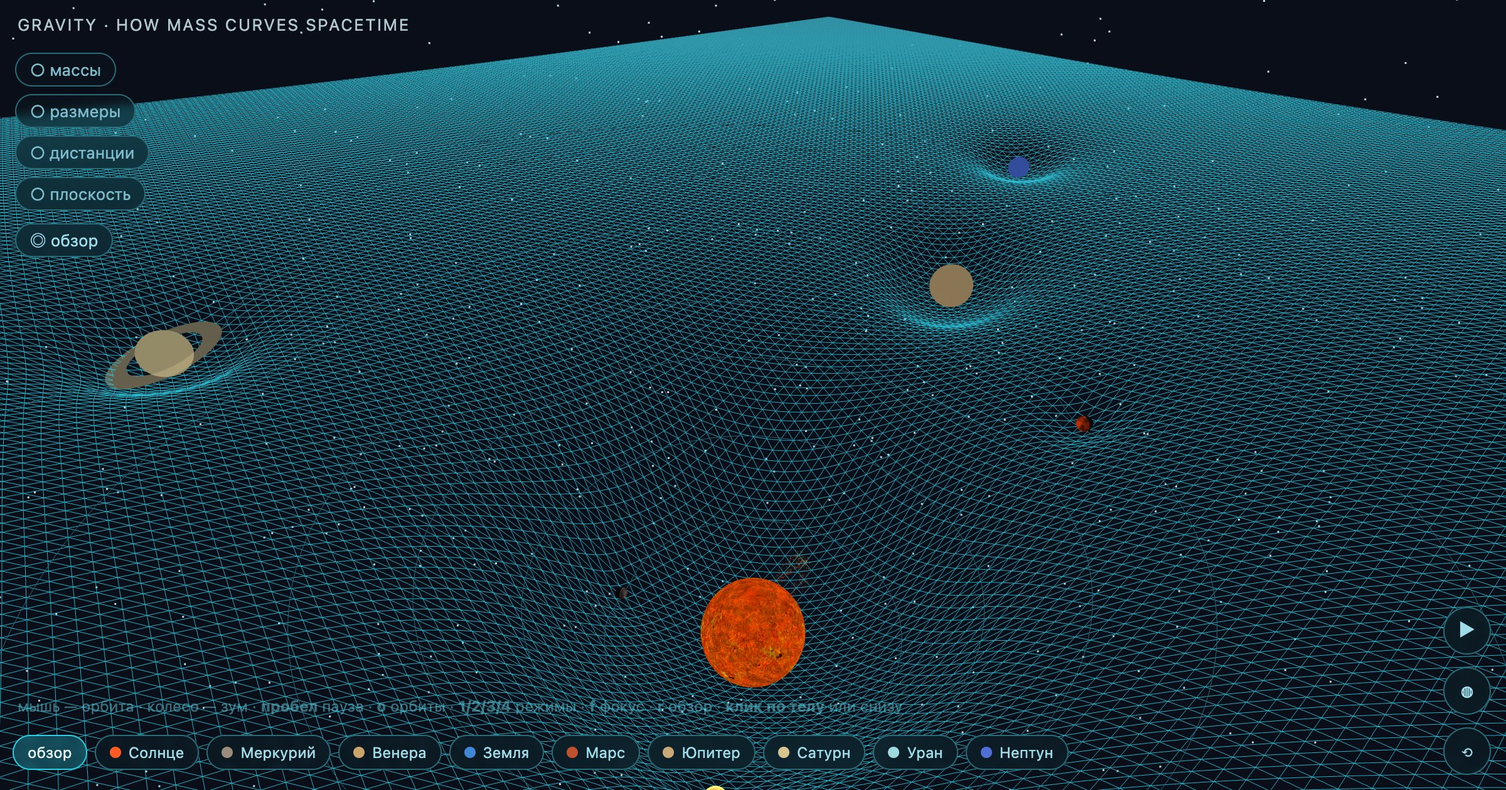
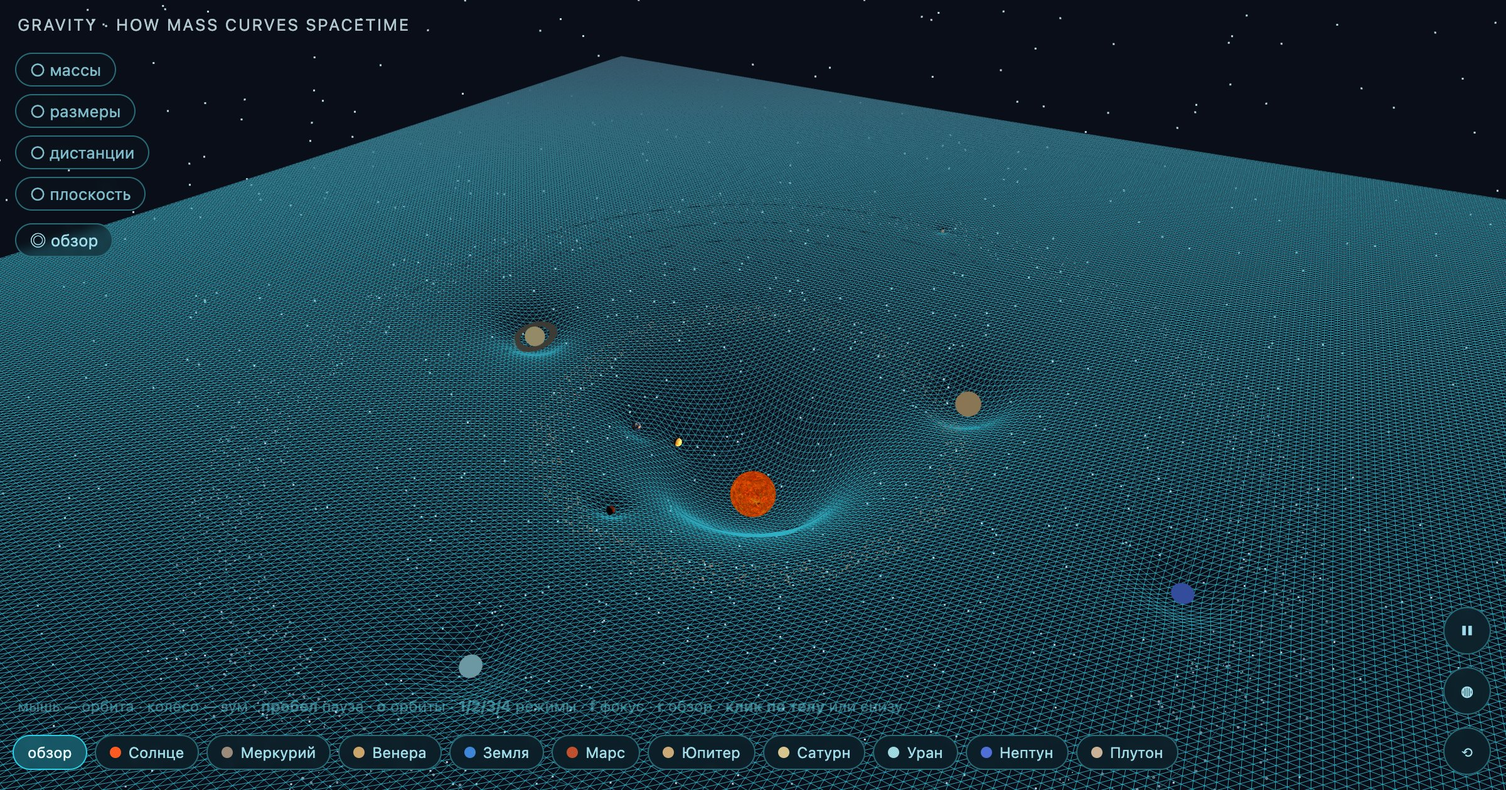
grav: Pluto + asteroid belts (main & Kuiper, GPU rock impostors lit by the sun), Jupiter & Saturn photo textures with day/night and healed seams, real ring structure (C/B/Cassini/A/Encke), exact solar mass (332946 M⊕), wider sheet for real-distance Kuiper

diff --git a/grav/index.html b/grav/index.html
@@ -130,16 +130,17 @@ scene.add(sunLight);
 //     not one of the three physical axes. ---
 const G = 1;
 const sun = { name: 'Sun', color: 0xff5a22, rwell: 100, x: 0, z: 0, speed: 0, ang: 0,
-              radiusS: 26, massS: 13000, orbitS: 0, realR: 109.2, realM: 333000, realAU: 0 };
+              radiusS: 26, massS: 13000, orbitS: 0, realR: 109.2, realM: 332946, realAU: 0 };   // 1.98841e30 kg / 5.97217e24 kg (JPL)
 const planets = [
   { name: 'Mercury', color: 0x9c8a7a, rwell: 13, speed: 0.052, radiusS: 3.0, massS: 90,   orbitS: 72,  realR: 0.383, realM: 0.0553, realAU: 0.387, texture: 'mercury.jpg', textureNight: 'mercury_night.jpg', spin: 0.003, nightBoost: 0.85, atmoStr: 0.0 },
   { name: 'Venus',   color: 0xcaa46a, rwell: 17, speed: 0.039, radiusS: 5.0, massS: 200,  orbitS: 104, realR: 0.950, realM: 0.815,  realAU: 0.723, texture: 'venus.jpg', textureNight: 'venus_night.jpg', spin: -0.002, atmoColor: 0xe8c88a, atmoStr: 1.3, atmoPow: 2.0, nightBoost: 0.7 },   // spin < 0: Venus really does rotate retrograde
   { name: 'Earth',   color: 0x3f86d6, rwell: 18, speed: 0.031, radiusS: 5.3, massS: 220,  orbitS: 140, realR: 1.000, realM: 1.000,  realAU: 1.000, texture: 'earth.jpg', textureNight: 'earth_night.jpg', cloud: 'earth_clouds.jpg', spin: 0.004 },
   { name: 'Mars',    color: 0xc1502e, rwell: 15, speed: 0.025, radiusS: 4.0, massS: 150,  orbitS: 176, realR: 0.532, realM: 0.107,  realAU: 1.524, texture: 'mars.jpg', textureNight: 'mars_night.jpg', spin: 0.004, atmoColor: 0xc07a48, nightBoost: 0.85, atmoStr: 0.6, atmoPow: 5.0 },
-  { name: 'Jupiter', color: 0xcaa877, rwell: 42, speed: 0.015, radiusS: 14,  massS: 1300, orbitS: 244, realR: 10.97, realM: 317.8,  realAU: 5.204 },
-  { name: 'Saturn',  color: 0xd8c48f, rwell: 38, speed: 0.011, radiusS: 12,  massS: 1000, orbitS: 312, realR: 9.14,  realM: 95.2,   realAU: 9.583, ring: true },
+  { name: 'Jupiter', color: 0xcaa877, rwell: 42, speed: 0.015, radiusS: 14,  massS: 1300, orbitS: 244, realR: 10.97, realM: 317.8,  realAU: 5.204, texture: 'jupiter.jpg', textureNight: 'jupiter_night.jpg', spin: 0.01, nightBoost: 0.9, atmoColor: 0xd8b08a, atmoStr: 0.45, atmoPow: 3.5 },   // spin 0.01: сутки 9.9 ч, самый быстрый волчок системы
+  { name: 'Saturn',  color: 0xd8c48f, rwell: 38, speed: 0.011, radiusS: 12,  massS: 1000, orbitS: 312, realR: 9.14,  realM: 95.2,   realAU: 9.583, ring: true, texture: 'saturn.jpg', spin: 0.009, nightBoost: 0.12, atmoColor: 0xe6d3a3, atmoStr: 0.3, atmoPow: 3.5 },   // без ночной карты: ночь = день × nightBoost; сутки 10.7 ч
   { name: 'Uranus',  color: 0x9fd8de, rwell: 28, speed: 0.008, radiusS: 8,   massS: 480,  orbitS: 366, realR: 3.98,  realM: 14.5,   realAU: 19.22 },
   { name: 'Neptune', color: 0x4f6fd6, rwell: 28, speed: 0.006, radiusS: 8,   massS: 480,  orbitS: 414, realR: 3.86,  realM: 17.1,   realAU: 30.07 },
+  { name: 'Pluto',   color: 0xc9b295, rwell: 8,  speed: 0.005, radiusS: 2.2, massS: 30,   orbitS: 470, realR: 0.187, realM: 0.00218, realAU: 39.48 },   // дом — в поясе Койпера (orbitS внутри его стилизованной полосы)
 ];
 const bodies = [sun, ...planets];
 bodies.forEach(b => { b.radius = b.radiusS; b.mass = b.massS; b.orbit = b.orbitS; });
@@ -161,7 +162,7 @@ function disp(x, z) { return real.flat ? 0 : wellDepth(x, z); }
 // --- the spacetime sheet. The wells are summed on the GPU: the vertex shader reads 9 (x, z, G·mass, rwell)
 //     uniforms and displaces each vertex itself — no per-frame JS loop over ~58k verts, no buffer re-upload.
 //     Same math as wellDepth(), so the sheet and the bodies always agree. ---
-const S = 1300, SEG = isTouch ? 150 : 240;   // fewer verts on phones
+const S = 1900, SEG = isTouch ? 200 : 320;   // wide enough for Pluto + the Kuiper belt at real distances; fewer verts on phones
 const gridMat = new THREE.ShaderMaterial({
   wireframe: true, transparent: true, fog: true,
   uniforms: THREE.UniformsUtils.merge([THREE.UniformsLib.fog, {
@@ -368,7 +369,8 @@ const planetMeshes = planets.map(p => {
     const cfg = t => { t.colorSpace = THREE.SRGBColorSpace; t.wrapS = THREE.RepeatWrapping;   // longitude wraps → seam on far side
                        t.wrapT = THREE.ClampToEdgeWrapping;                                    // latitude clamps at the poles
                        t.anisotropy = renderer.capabilities.getMaxAnisotropy(); return t; };
-    const day = cfg(texLoader.load(p.texture)), night = cfg(texLoader.load(p.textureNight));
+    const day = cfg(texLoader.load(p.texture)),
+          night = p.textureNight ? cfg(texLoader.load(p.textureNight)) : day;   // нет ночной карты (газовые гиганты) → та же дневная, приглушённая малым nightBoost
     mat = new THREE.ShaderMaterial({
       uniforms: { dayMap: { value: day }, nightMap: { value: night },
                   sunDir: { value: new THREE.Vector3(1, 0, 0) }, atmo: { value: new THREE.Color(p.atmoColor ?? 0x3aa0ff) }, nightBoost: { value: p.nightBoost ?? 1.7 },
@@ -423,8 +425,29 @@ const planetMeshes = planets.map(p => {
     m.add(p._cloud);
   }
   if (p.ring) {
-    const ring = new THREE.Mesh(new THREE.RingGeometry(p.radiusS * 1.5, p.radiusS * 2.3, 48),
-      new THREE.MeshBasicMaterial({ color: 0xd8c48f, side: THREE.DoubleSide, transparent: true, opacity: 0.5 }));
+    // кольца по-настоящему: радиальные UV + полоса-текстура с зонами C (тусклая), B (яркая),
+    // щелью Кассини и кольцом A со щелью Энке; радиусы — в пропорциях настоящих (1.24–2.27 R)
+    const r0 = p.radiusS * 1.24, r1 = p.radiusS * 2.27;
+    const rg = new THREE.RingGeometry(r0, r1, 96, 1);
+    const rpos = rg.attributes.position, ruv = rg.attributes.uv;
+    for (let i = 0; i < rpos.count; i++) ruv.setXY(i, (Math.hypot(rpos.getX(i), rpos.getY(i)) - r0) / (r1 - r0), 0.5);
+    const rc = document.createElement('canvas'); rc.width = 512; rc.height = 1;
+    const stops = [[0,0.04],[0.05,0.12],[0.28,0.3],[0.30,0.75],[0.55,0.7],[0.685,0.62],[0.7,0.06],[0.76,0.06],[0.78,0.5],[0.94,0.48],[0.948,0.1],[0.958,0.42],[0.99,0.3],[1,0]];
+    const alphaAt = x => { for (let s = 1; s < stops.length; s++) if (x <= stops[s][0]) {
+      const [x0,a0] = stops[s-1], [x1,a1] = stops[s]; return a0 + (a1-a0)*(x-x0)/((x1-x0) || 1); } return 0; };
+    const im = rc.getContext('2d').createImageData(512, 1);
+    for (let x = 0; x < 512; x++) {
+      const t = x / 511;
+      const a = alphaAt(t) * (0.86 + 0.14*Math.sin(t*180 + Math.sin(t*57)*2));   // тонкие бороздки
+      const zone = t < 0.28 ? 0.8 : (t < 0.7 ? 1.0 : 0.92);                      // C темнее, B ярче, A между
+      const shade = (205 + 22*Math.sin(t*40 + 1.7)) * zone;
+      im.data[x*4] = shade; im.data[x*4+1] = shade*0.9; im.data[x*4+2] = shade*0.72;
+      im.data[x*4+3] = Math.max(0, Math.min(1, a)) * 255;
+    }
+    rc.getContext('2d').putImageData(im, 0, 0);
+    const rtex = new THREE.CanvasTexture(rc);
+    rtex.colorSpace = THREE.SRGBColorSpace;
+    const ring = new THREE.Mesh(rg, new THREE.MeshBasicMaterial({ map: rtex, side: THREE.DoubleSide, transparent: true, depthWrite: false }));
     ring.rotation.x = -Math.PI / 2.3; m.add(ring);
   }
   scene.add(m); return m;
@@ -437,6 +460,89 @@ const orbitLines = planets.map(p => {
   g.setAttribute('position', new THREE.BufferAttribute(new Float32Array(N * 3), 3));
   const line = new THREE.LineLoop(g, new THREE.LineBasicMaterial({ color: 0x49b8ce, transparent: true, opacity: 0.55 }));
   scene.add(line); return { line, N, r: p.orbit };
+});
+
+// --- asteroid belts: the main belt (between Mars and Jupiter) and the Kuiper belt (beyond Neptune —
+//     Pluto's home). Pure GPU dust: each particle carries its lane t within the belt, a start angle
+//     and a small height scatter; the vertex shader derives x,z from the current belt radii
+//     (uR0/uR1 — swapped by the "дистанции" toggle) and drops the point onto the sheet with the
+//     same well sum as the grid. Per-frame JS cost: one shared time uniform. ---
+const BELT_TIME = { value: 0 };
+const SUN_POS = { value: new THREE.Vector3() };   // world position of the sun, fed each frame — lights the rocks
+const BELTS = [
+  { styl0: 196, styl1: 228, realA0: 2.2, realA1: 3.3, N: isTouch ? 900 : 1600,  color: 0xa08a6e, color2: 0x5f5347, w0: 0.021 },   // main belt, 2.2–3.3 AU — rock/rust
+  { styl0: 436, styl1: 505, realA0: 30,  realA1: 50,  N: isTouch ? 1100 : 2000, color: 0xcfe2ee, color2: 0x7f98ac, w0: 0.0052 },  // Kuiper belt, 30–50 AU — ice
+];
+const beltMats = BELTS.map(bd => new THREE.ShaderMaterial({
+  transparent: true, depthWrite: false,
+  uniforms: { uWells: { value: uWells },                       // тот же массив ям, что у листа — одно обновление кормит всё
+              uFlat: gridMat.uniforms.uFlat,                   // общий объект-uniform: флаг «плоскости»
+              uT: BELT_TIME, uSun: SUN_POS,
+              uR0: { value: bd.styl0 }, uR1: { value: bd.styl1 }, uW0: { value: bd.w0 },
+              uColor: { value: new THREE.Color(bd.color) }, uColor2: { value: new THREE.Color(bd.color2) } },
+  vertexShader: `
+    uniform vec4 uWells[${bodies.length}]; uniform float uFlat, uT, uR0, uR1, uW0;
+    uniform vec3 uSun, uColor, uColor2;
+    attribute float aT, aAng, aH, aSize, aSeed;
+    varying vec3 vCol; varying vec3 vSunV; varying float vSeed;
+    void main() {
+      float r = mix(uR0, uR1, aT);
+      float a = aAng - uT * uW0 * (1.0 - 0.35 * aT);           // внутренние дорожки быстрее → пояс «сдвигается» как настоящий
+      vec2 p = vec2(cos(a), sin(a)) * r;
+      float y = 0.0;
+      for (int i = 0; i < ${bodies.length}; i++) {
+        vec4 m = uWells[i];
+        float rr = max(distance(p, m.xy), 1e-4);
+        y -= (rr >= m.w) ? m.z / rr : m.z * (3.0 - (rr*rr)/(m.w*m.w)) / (2.0 * m.w);
+      }
+      y = mix(y, 0.0, uFlat) + aH + 0.8;                       // едет по листу, лёгкий вертикальный разброс
+      vec4 mv = modelViewMatrix * vec4(p.x, y, p.y, 1.0);
+      gl_PointSize = min(aSize * (780.0 / -mv.z), 34.0);       // clamp: вблизи пусть будут камешки, а не экранные призраки
+      gl_Position = projectionMatrix * mv;
+      vCol = mix(uColor, uColor2, fract(aSeed * 0.618));       // разнобой оттенков внутри пояса
+      vSunV = normalize((viewMatrix * vec4(uSun, 1.0)).xyz - mv.xyz);   // направление на Солнце в view-space — для освещения спрайта
+      vSeed = aSeed;
+    }`,
+  fragmentShader: `
+    uniform float uT;
+    varying vec3 vCol; varying vec3 vSunV; varying float vSeed;
+    void main() {
+      vec2 q = gl_PointCoord - 0.5;
+      float d2 = dot(q, q);
+      if (d2 > 0.25) discard;
+      // неровный, медленно кувыркающийся силуэт вместо кружка
+      float ang = atan(q.y, q.x) + uT * (fract(vSeed * 0.37) - 0.5) * 0.5;
+      float edge = 0.5 * (0.76 + 0.10*sin(ang*3.0 + vSeed) + 0.07*sin(ang*5.0 + vSeed*1.7) + 0.04*sin(ang*8.0 + vSeed*2.3));   // «картофелина», не звёздочка
+      float rr = sqrt(d2);
+      if (rr > edge) discard;
+      // сферический импостор: нормаль из точки спрайта, свет от Солнца → освещённый бок / тёмный бок
+      vec3 n = normalize(vec3(2.0*q.x, -2.0*q.y, sqrt(max(0.0, 1.0 - 4.0*d2))));
+      float diff = max(dot(n, vSunV), 0.0);
+      vec3 col = vCol * (0.22 + 0.95 * diff);
+      float aa = smoothstep(edge, edge - 0.07, rr);
+      gl_FragColor = vec4(col, aa);
+      #include <colorspace_fragment>
+    }`,
+}));
+BELTS.forEach((bd, i) => {
+  const g = new THREE.BufferGeometry(), rng = Math.random;
+  const aT = new Float32Array(bd.N), aAng = new Float32Array(bd.N), aH = new Float32Array(bd.N),
+        aSize = new Float32Array(bd.N), aSeed = new Float32Array(bd.N);
+  for (let k = 0; k < bd.N; k++) {
+    aT[k] = rng(); aAng[k] = rng() * Math.PI * 2;
+    aH[k] = (rng() + rng() - 1) * 2.2;                         // треугольное распределение: пыль жмётся к листу
+    aSize[k] = 0.9 + 2.9 * Math.pow(rng(), 2.2);               // степенной закон: много мелочи, редкие крупные
+    aSeed[k] = rng() * 100;                                    // форма, оттенок и кувыркание камня
+  }
+  g.setAttribute('position', new THREE.BufferAttribute(new Float32Array(bd.N * 3), 3));   // настоящие позиции живут в шейдере
+  g.setAttribute('aT', new THREE.BufferAttribute(aT, 1));
+  g.setAttribute('aAng', new THREE.BufferAttribute(aAng, 1));
+  g.setAttribute('aH', new THREE.BufferAttribute(aH, 1));
+  g.setAttribute('aSize', new THREE.BufferAttribute(aSize, 1));
+  g.setAttribute('aSeed', new THREE.BufferAttribute(aSeed, 1));
+  const pts = new THREE.Points(g, beltMats[i]);
+  pts.frustumCulled = false;                                   // dummy-позиции дали бы пустую bounding sphere
+  scene.add(pts);
 });
 
 // --- the three "real vs stylized" toggles ---
@@ -461,6 +567,12 @@ function recompute(reframe = true) {
                              p.x = Math.cos(p.ang) * p.orbit; p.z = Math.sin(p.ang) * p.orbit; }
   const orbits = planets.map(p => p.orbit);
   const innermost = Math.min(...orbits), maxOrbit = Math.max(...orbits);
+
+  // 1b) the belts follow the same distance flip (radii live in uniforms — instant, no re-upload)
+  beltMats.forEach((m, i) => { const bd = BELTS[i];
+    m.uniforms.uR0.value = real.dist ? bd.realA0 * AU_UNIT : bd.styl0;
+    m.uniforms.uR1.value = real.dist ? bd.realA1 * AU_UNIT : bd.styl1;
+  });
 
   // 2) radii — true size ratios (anchored so the Sun keeps its stylized size), or the stylized sizes
   for (const b of bodies) b.radius = real.size ? Math.max(MIN_VIS, sun.radiusS * (b.realR / sun.realR)) : b.radiusS;
@@ -538,7 +650,7 @@ bReset.onclick = () => { freeRoam(); resetView(); };
 // --- focus / free-roam: tap a body (in the scene or the picker strip) → camera flies to it & follows; ⟲ / r = free roam ---
 const CENTER = new THREE.Vector3(0, -45, 0);
 const RU = { Sun: 'Солнце', Mercury: 'Меркурий', Venus: 'Венера', Earth: 'Земля', Mars: 'Марс',
-             Jupiter: 'Юпитер', Saturn: 'Сатурн', Uranus: 'Уран', Neptune: 'Нептун' };
+             Jupiter: 'Юпитер', Saturn: 'Сатурн', Uranus: 'Уран', Neptune: 'Нептун', Pluto: 'Плутон' };
 const focusOrder = [sun, ...planets];
 const focusEl = document.getElementById('focus');
 const picker = document.getElementById('picker');
@@ -572,7 +684,7 @@ renderer.domElement.addEventListener('pointerup', e => {
   const rect = renderer.domElement.getBoundingClientRect();
   ray.setFromCamera(new THREE.Vector2(((e.clientX - rect.left) / rect.width) * 2 - 1,
                                       -((e.clientY - rect.top) / rect.height) * 2 + 1), camera);
-  const hit = ray.intersectObjects([sunMesh, ...planetMeshes], true).find(h => h.object !== prominences);   // спящие (невидимые) частицы протуберанцев — не мишень
+  const hit = ray.intersectObjects([sunMesh, ...planetMeshes], true).find(h => !h.object.isPoints);   // частицы (протуберанцы, пояса) — не мишень
   if (!hit) return;
   let o = hit.object; while (o && o !== sunMesh && !planetMeshes.includes(o)) o = o.parent;
   const b = o === sunMesh ? sun : (planetMeshes.includes(o) ? planets[planetMeshes.indexOf(o)] : null);
@@ -622,9 +734,11 @@ function animate() {
   const sy = disp(0, 0);
   sunMesh.position.set(0, sy + sun.radius, 0);   // bottom rests at the sheet's low point — sits IN the fabric, never below it
   sunLight.position.copy(sunMesh.position);
+  SUN_POS.value.copy(sunMesh.position);          // rocks in the belts are lit from here
   if (!paused) {
     sunMat.uniforms.time.value += 0.026 * F; sunMesh.rotation.y += 0.0012 * F;   // boil + slow axial spin
     PROM.update(sunMat.uniforms.time.value);   // flow plasma along the magnetic loops (frozen buffers keep the picture while paused)
+    BELT_TIME.value += 0.02 * F;               // asteroid belts drift on the same clock as the planets
   }
   planets.forEach((p, i) => {
     planetMeshes[i].position.set(p.x, disp(p.x, p.z) + p.radius, p.z);
